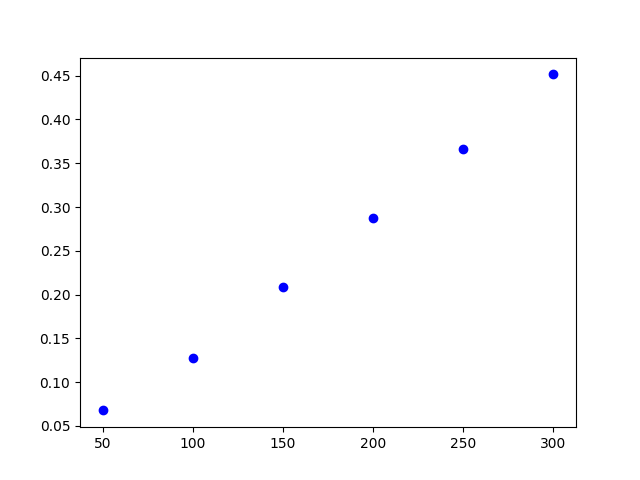
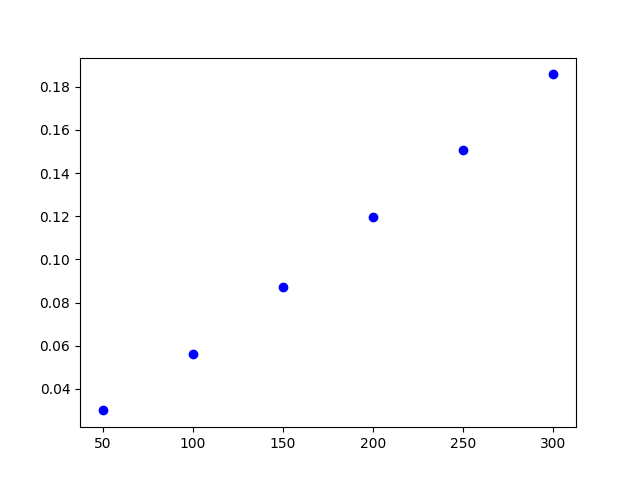
improve quicksort, add copy argument

diff --git a/2. Algorytmy Sortowania/algorithms.py b/2. Algorytmy Sortowania/algorithms.py
@@ -1,20 +1,33 @@
-def quicksort(lst: list):
-    if len(lst) <= 1:
+def quicksort(lst: list, start=0, end=None, copy=True):
+    if copy:
+        lst = list(lst)
+
+    if end is None:
+        end = len(lst)
+
+    if end - start <= 1:
         return lst
-    pivot = lst[-1]
-    i = 0
-    for j, el in enumerate(lst[:-1]):
-        if el < pivot:
+
+    pivot = lst[end-1]
+    i = start
+    for j in range(start, end - 1):
+        if lst[j] < pivot:
             tmp = lst[i]
-            lst[i] = el
+            lst[i] = lst[j]
             lst[j] = tmp
             i += 1
-    lst[-1] = lst[i]
+
+    lst[end-1] = lst[i]
     lst[i] = pivot
-    return [*quicksort(lst[:i]), pivot, *quicksort(lst[i+1:])]
+    quicksort(lst, start=start, end=i, copy=False)
+    quicksort(lst, start=i+1, end=end, copy=False)
+    return lst
 
 
-def bubblesort(lst: list):
+def bubblesort(lst: list, copy=True):
+    if copy:
+        lst = list(lst)
+
     for i in range(len(lst), 1, -1):
         for j in range(i-1):
             if lst[j] > lst[j+1]:

diff --git a/2. Algorytmy Sortowania/test_algorithms.py b/2. Algorytmy Sortowania/test_algorithms.py
@@ -3,18 +3,17 @@ from typing import Callable
 import algorithms
 
 test_filename = "reference/lorem_ipsum.txt"
-desired_filename = "reference/lorem_ipsum_sorted.txt"
 
 
 def algorithm_test(func: Callable[[list], list]):
-    result = []
     with open(test_filename, "r") as f:
         for line in f:
             line = line.rstrip("\n")
-            line = "".join(func([char for char in line]))
-            result.append(line + "\n")
-    with open(desired_filename, "r") as f:
-        assert f.readlines() == result
+
+            got = func([char for char in line])
+            want = sorted([char for char in line])
+
+            assert got == want
 
 
 def test_quicksort():

diff --git a/2. Algorytmy Sortowania/benchmark.py b/2. Algorytmy Sortowania/benchmark.py
@@ -27,3 +27,4 @@ def benchmark_sort(
 def plot_benchmark(benchmark: Dict[int, float], filename: str):
     plt.plot(list(benchmark.keys()), list(benchmark.values()), "bo")
     plt.savefig(filename)
+    plt.close()
